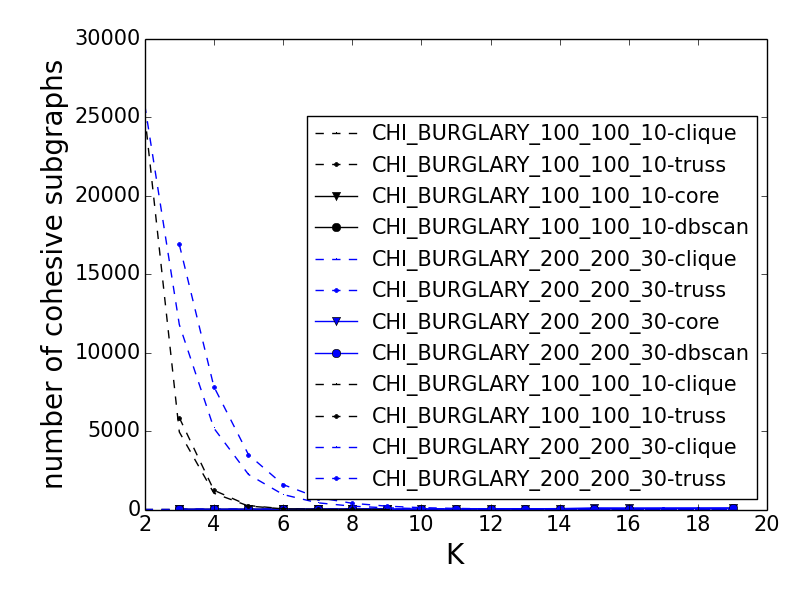
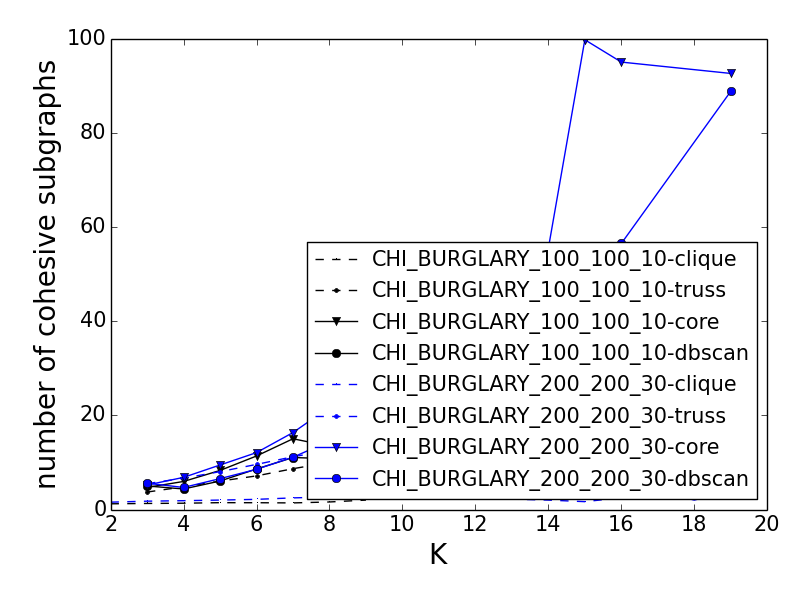
new

diff --git a/scripts/data_analysis.py b/scripts/data_analysis.py
@@ -143,8 +143,9 @@ class JsonStatsCollections:
                 plt.plot(self.coll[c].coreSize['x'],   self.coll[c].coreSize['y'],   color=colors[i], linestyle='-',  marker='v', label = self.coll[c].name+'-core')
                 plt.plot(self.coll[c].dbscanSize['x'], self.coll[c].dbscanSize['y'], color=colors[i], linestyle='-',  marker='o', label = self.coll[c].name+'-dbscan')
             else:
-                plt.plot(self.coll[c].clique['x'], self.coll[c].clique['y'], color=colors[i], linestyle='--', marker=',', label = self.coll[c].name+'-clique')
-                plt.plot(self.coll[c].truss['x'],  self.coll[c].truss['y'],  color=colors[i], linestyle='--', marker='.', label = self.coll[c].name+'-truss')
+                continue
+                #plt.plot(self.coll[c].clique['x'], self.coll[c].clique['y'], color=colors[i], linestyle='--', marker=',', label = self.coll[c].name+'-clique')
+                #plt.plot(self.coll[c].truss['x'],  self.coll[c].truss['y'],  color=colors[i], linestyle='--', marker='.', label = self.coll[c].name+'-truss')
                 #plt.plot(self.coll[c].core['x'],   self.coll[c].core['y'],   color=colors[i], linestyle='-',  marker='v', label = self.coll[c].name+'-core')
                 #plt.plot(self.coll[c].dbscan['x'], self.coll[c].dbscan['y'], color=colors[i], linestyle='-',  marker='o', label = self.coll[c].name+'-dbscan')
             i += 1
